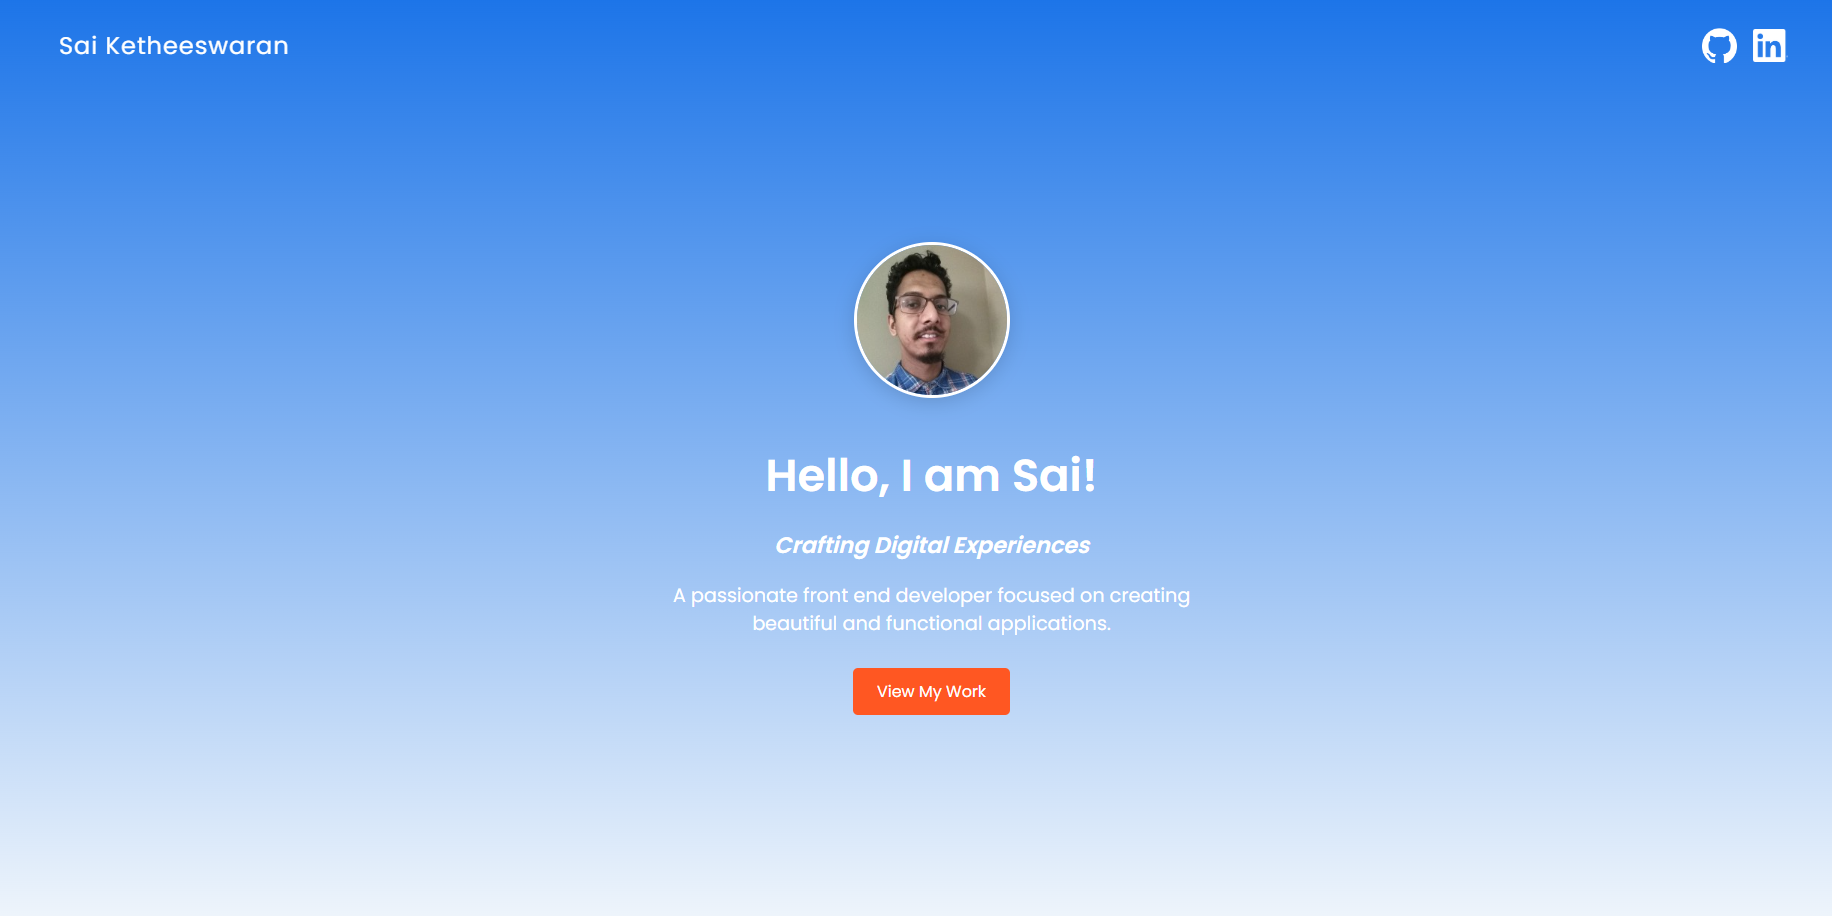
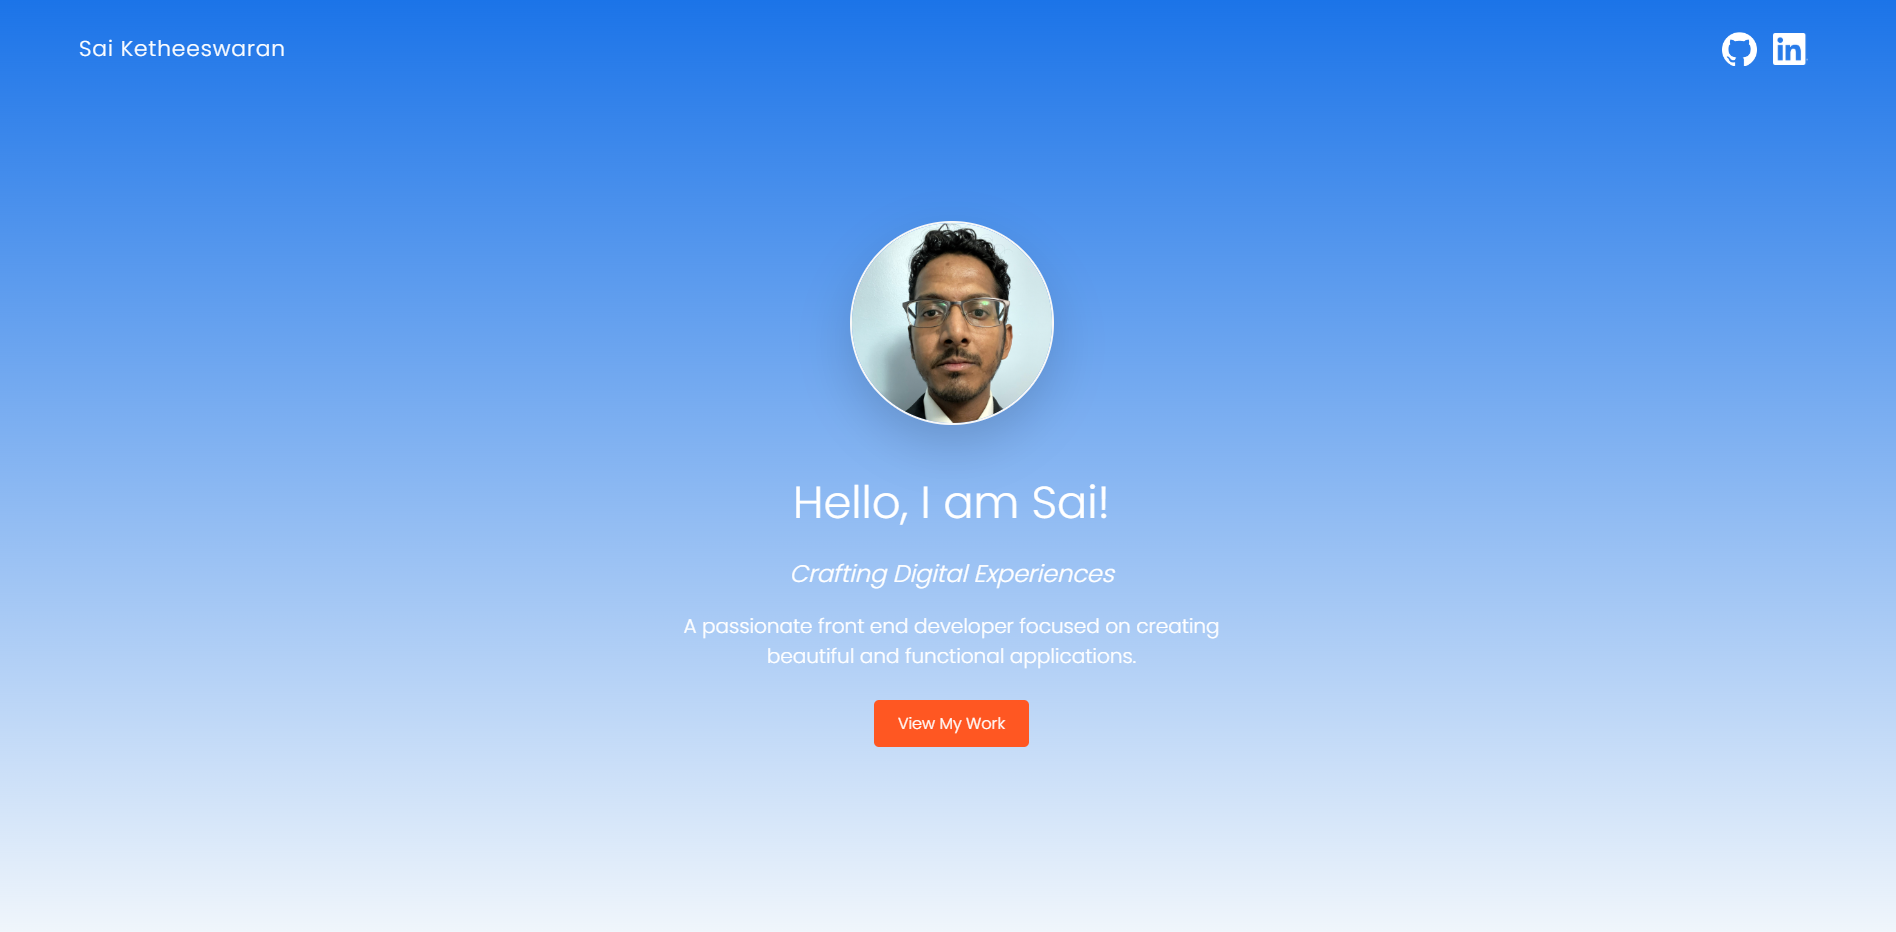
image changes

diff --git a/src/styles/footer.css b/src/styles/footer.css
@@ -4,17 +4,9 @@
   text-align: center;
 }
 
-/* Footer Title */
-.footer-title {
-  font-size: 1.5rem;
-  color: #ff5722;
-  margin-bottom: 0.5rem;
-  font-weight: 600;
-}
-
 /* Footer Text */
 .footer-text {
-  font-size: 0.95rem;
+  font-size: 1rem;
   color: #777;
   margin-bottom: 1.2rem;
   line-height: 1.5;
@@ -31,8 +23,8 @@
 
 /* Social Media Icons */
 .footer-icon {
-  width: 32px;
-  height: 32px;
+  width: 35px;
+  height: 35px;
   object-fit: contain;
   display: block;
 }
@@ -48,14 +40,10 @@
 
 /* Footer Links */
 .footer-link {
-  color: #333;
+  color: #777;
   text-decoration: none;
-  font-size: 1rem;
+  font-size: .75rem;
   transition: color 0.3s ease;
-}
-
-.footer-link:hover {
-  color: #ff5722;
 }
 
 /* Copyright */

diff --git a/src/components/Contact.js b/src/components/Contact.js
@@ -41,11 +41,11 @@ const Contact = () => {
         <form className="contact-form" onSubmit={handleSubmit}>
           <div className="form-group">
             <label htmlFor="name">Name</label>
-            <input type="text" id="name" name="name" placeholder="" required />
+            <input type="text" id="name" name="name" required />
           </div>
           <div className="form-group">
             <label htmlFor="email">Email</label>
-            <input type="email" id="email" name="email" placeholder="" required />
+            <input type="email" id="email" name="email" required />
           </div>
           <div className="form-group">
             <label htmlFor="message">Message</label>

diff --git a/src/styles/about.css b/src/styles/about.css
@@ -43,7 +43,6 @@
   opacity: 0;
   transition: opacity 2s ease-out,
 }
-
 .fade-in-text.visible {
   opacity: 1;
 }
@@ -82,15 +81,16 @@
   animation: slight-rotate 1s infinite ease-in-out;
 }
 
+/* Rotate Animation */
 @keyframes slight-rotate {
   0% {
-    transform: rotate(-.25deg);
+    transform: rotate(-.20deg);
   }
   50% {
-    transform: rotate(.25deg);
+    transform: rotate(.20deg);
   }
   100% {
-    transform: rotate(-.25deg);
+    transform: rotate(-.20deg);
   }
 }
 

diff --git a/public/index.html b/public/index.html
@@ -4,7 +4,7 @@
     <meta charset="utf-8" />
     <meta name="viewport" content="width=device-width, initial-scale=1" />
     <title>Sai Ketheeswaran</title>
-    <link rel="icon" href="profile.jpeg" />
+    <link rel="icon" href="%PUBLIC_URL%/profile.jpeg" type="icon" />
     <link href="https://fonts.googleapis.com/css2?family=Poppins:wght@300;400;600&display=swap" rel="stylesheet">
 </head>
 <body>

diff --git a/src/styles/hero.css b/src/styles/hero.css
@@ -10,12 +10,13 @@
   min-height: 85vh;
 }
 
+/* Hero Image */
 .hero-profile-image {
-  width: 200px;
-  height: 200px;
+  width: 175px;
+  height: 175px;
   border-radius: 50%;
-  object-fit: cover;
-  border: 2.5px solid #f7f7f7;
+  object-fit:cover;
+  border: 2px solid #f7f7f7;
   box-shadow: 0 20px 50px rgba(0, 0, 0, 0.15);
 }
 

diff --git a/src/styles/header.css b/src/styles/header.css
@@ -15,7 +15,7 @@
 
 /* Name Styling */
 .header-name {
-  font-size: 1.5rem;
+  font-size: 1.35rem;
   font-weight: 100;
   letter-spacing: 1px;
   white-space: nowrap;
